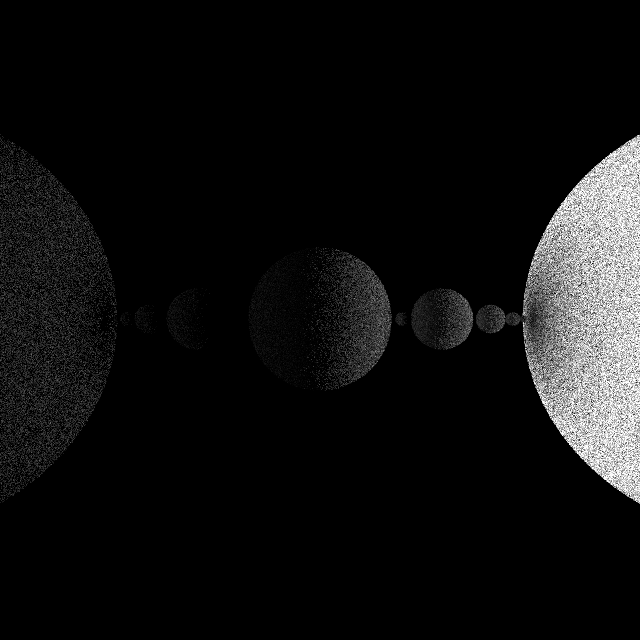
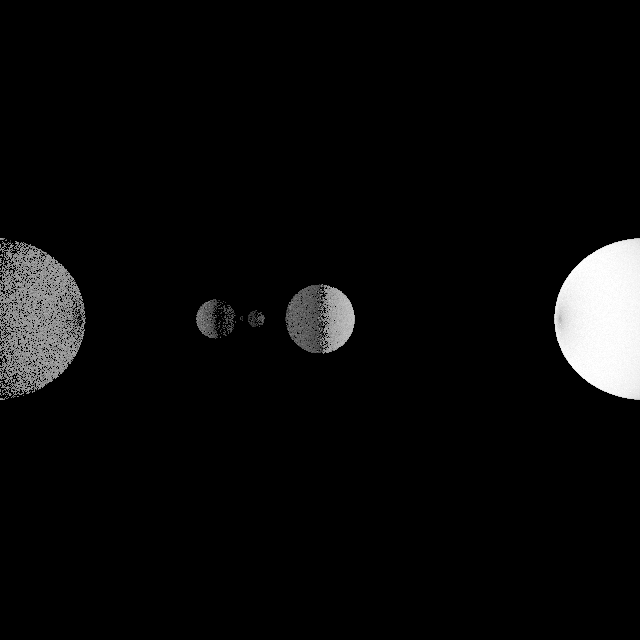
Test scene for depth=6

Changed region(s): [[0.4375, 0.2188, 1.0, 0.7812], [0.0, 0.2188, 0.1875, 0.7812], [0.3125, 0.4688, 0.4062, 0.5312]]

diff --git a/src/main.cpp b/src/main.cpp
@@ -26,7 +26,7 @@ using namespace std;
 // TODO light_hint is not very good solution!
 float ray_power(const Geometry& geometry, const Lighting& lighting, vec3 origin, vec3 direction, size_t depth=0){
 
-    if(depth==4)
+    if(depth==6)
         return 0.0f;
 
     std::optional<surface_intersection> si = geometry.traceRay(origin, direction);
@@ -96,7 +96,7 @@ void render(const Scene& scene, RenderPlane& r_plane, size_t n_samples){
         r_plane.addRay(x, y, value);
 
         }// for x
-        cout << iy << endl;
+        //cout << iy << endl;
         }// for y
 
         cout << "Sample " << sample << " / " << n_samples << " OK" << endl;
@@ -129,11 +129,11 @@ Scene make_scene_box(){
 
 Scene make_scene_fractal(){
     shared_ptr<CollectionLighting> lighting = make_shared<CollectionLighting>();
-    lighting->addSphereLight(vec3(-5,0,0), 2);
+    lighting->addSphereLight(vec3(-5.5,0,0), 1);
 
     shared_ptr<Geometry> geometry = make_shared<FractalSpheres>();
 
-    vec3 camera_pos(0.0f, -3.0f, 0.0f);
+    vec3 camera_pos(0.0f, -4.0f, 0.0f);
     vec3 camera_dir = vec3(0,1,0);
     shared_ptr<SimpleCamera> camera = make_shared<SimpleCamera>( camera_pos, camera_dir );
 
@@ -146,7 +146,7 @@ int main(){
 
     GridRenderPlane r_plane(640, 640);
 
-    render(scene, r_plane, 10);
+    render(scene, r_plane, 100);
 
     cout << "Max value = " << r_plane.max_value << endl;
 
@@ -158,7 +158,7 @@ int main(){
     FILE* fp = fopen("result.pgm", "wb");
     fprintf(fp, "P2\n%lu %lu\n%d\n", r_plane.width, r_plane.height, 255);
 
-    float gamma = 0.6f;
+    float gamma = 0.1f;
     for(size_t y = 0; y<r_plane.height; ++y){
         for(size_t x = 0; x<r_plane.width; ++x){
             float value = r_plane.pixels[y*r_plane.width+x]/r_plane.max_value;

diff --git a/src/geometry/FractalSpheres.cpp b/src/geometry/FractalSpheres.cpp
@@ -13,7 +13,7 @@
 using namespace glm;
 using namespace std;
 
-void generate_spheres(float r1, vec3 c1, float r2, vec3 c2, function<bool(float r, vec3 c)> callback){
+void generate_spheres(float r1, vec3 c1, float r2, vec3 c2, bool light_from_left, function<bool(float r, vec3 c)> callback){
     float r3;
     vec3 c3;
 
@@ -36,21 +36,26 @@ void generate_spheres(float r1, vec3 c1, float r2, vec3 c2, function<bool(float 
 
     if(callback(r3, c3))
         return;
-    generate_spheres(r1, c1, r3, c3, callback);
-    generate_spheres(r3, c3, r2, c2, callback);
+    if(light_from_left)
+        generate_spheres(r1, c1, r3, c3, !light_from_left, callback);
+    else
+        generate_spheres(r3, c3, r2, c2, !light_from_left, callback);
 }
 
 FractalSpheres::FractalSpheres(){
 
-    float r1 = 1.0f;
+    float r1 = 0.5f;
     vec3 c1 = vec3(-2,0,0);
-    float r2 = 1.0f;
+    float r2 = 0.5f;
     vec3 c2 = vec3(2,0,0);
 
     auto add_sphere = [this](float r, vec3 c)->bool {
 
-        if(r<0.01)
+        if(r<0.001)
             return true;
+
+        cout << c.x << " " << r << endl;
+
         rs.push_back(r);
         cs.push_back(c);
         return false;
@@ -58,7 +63,7 @@ FractalSpheres::FractalSpheres(){
 
     add_sphere(r1, c1);
     add_sphere(r2, c2);
-    generate_spheres(r1, c1, r2, c2, add_sphere);
+    generate_spheres(r1, c1, r2, c2, true, add_sphere);
 }
 
 optional<surface_intersection> FractalSpheres::traceRay(vec3 origin, vec3 direction) const {
